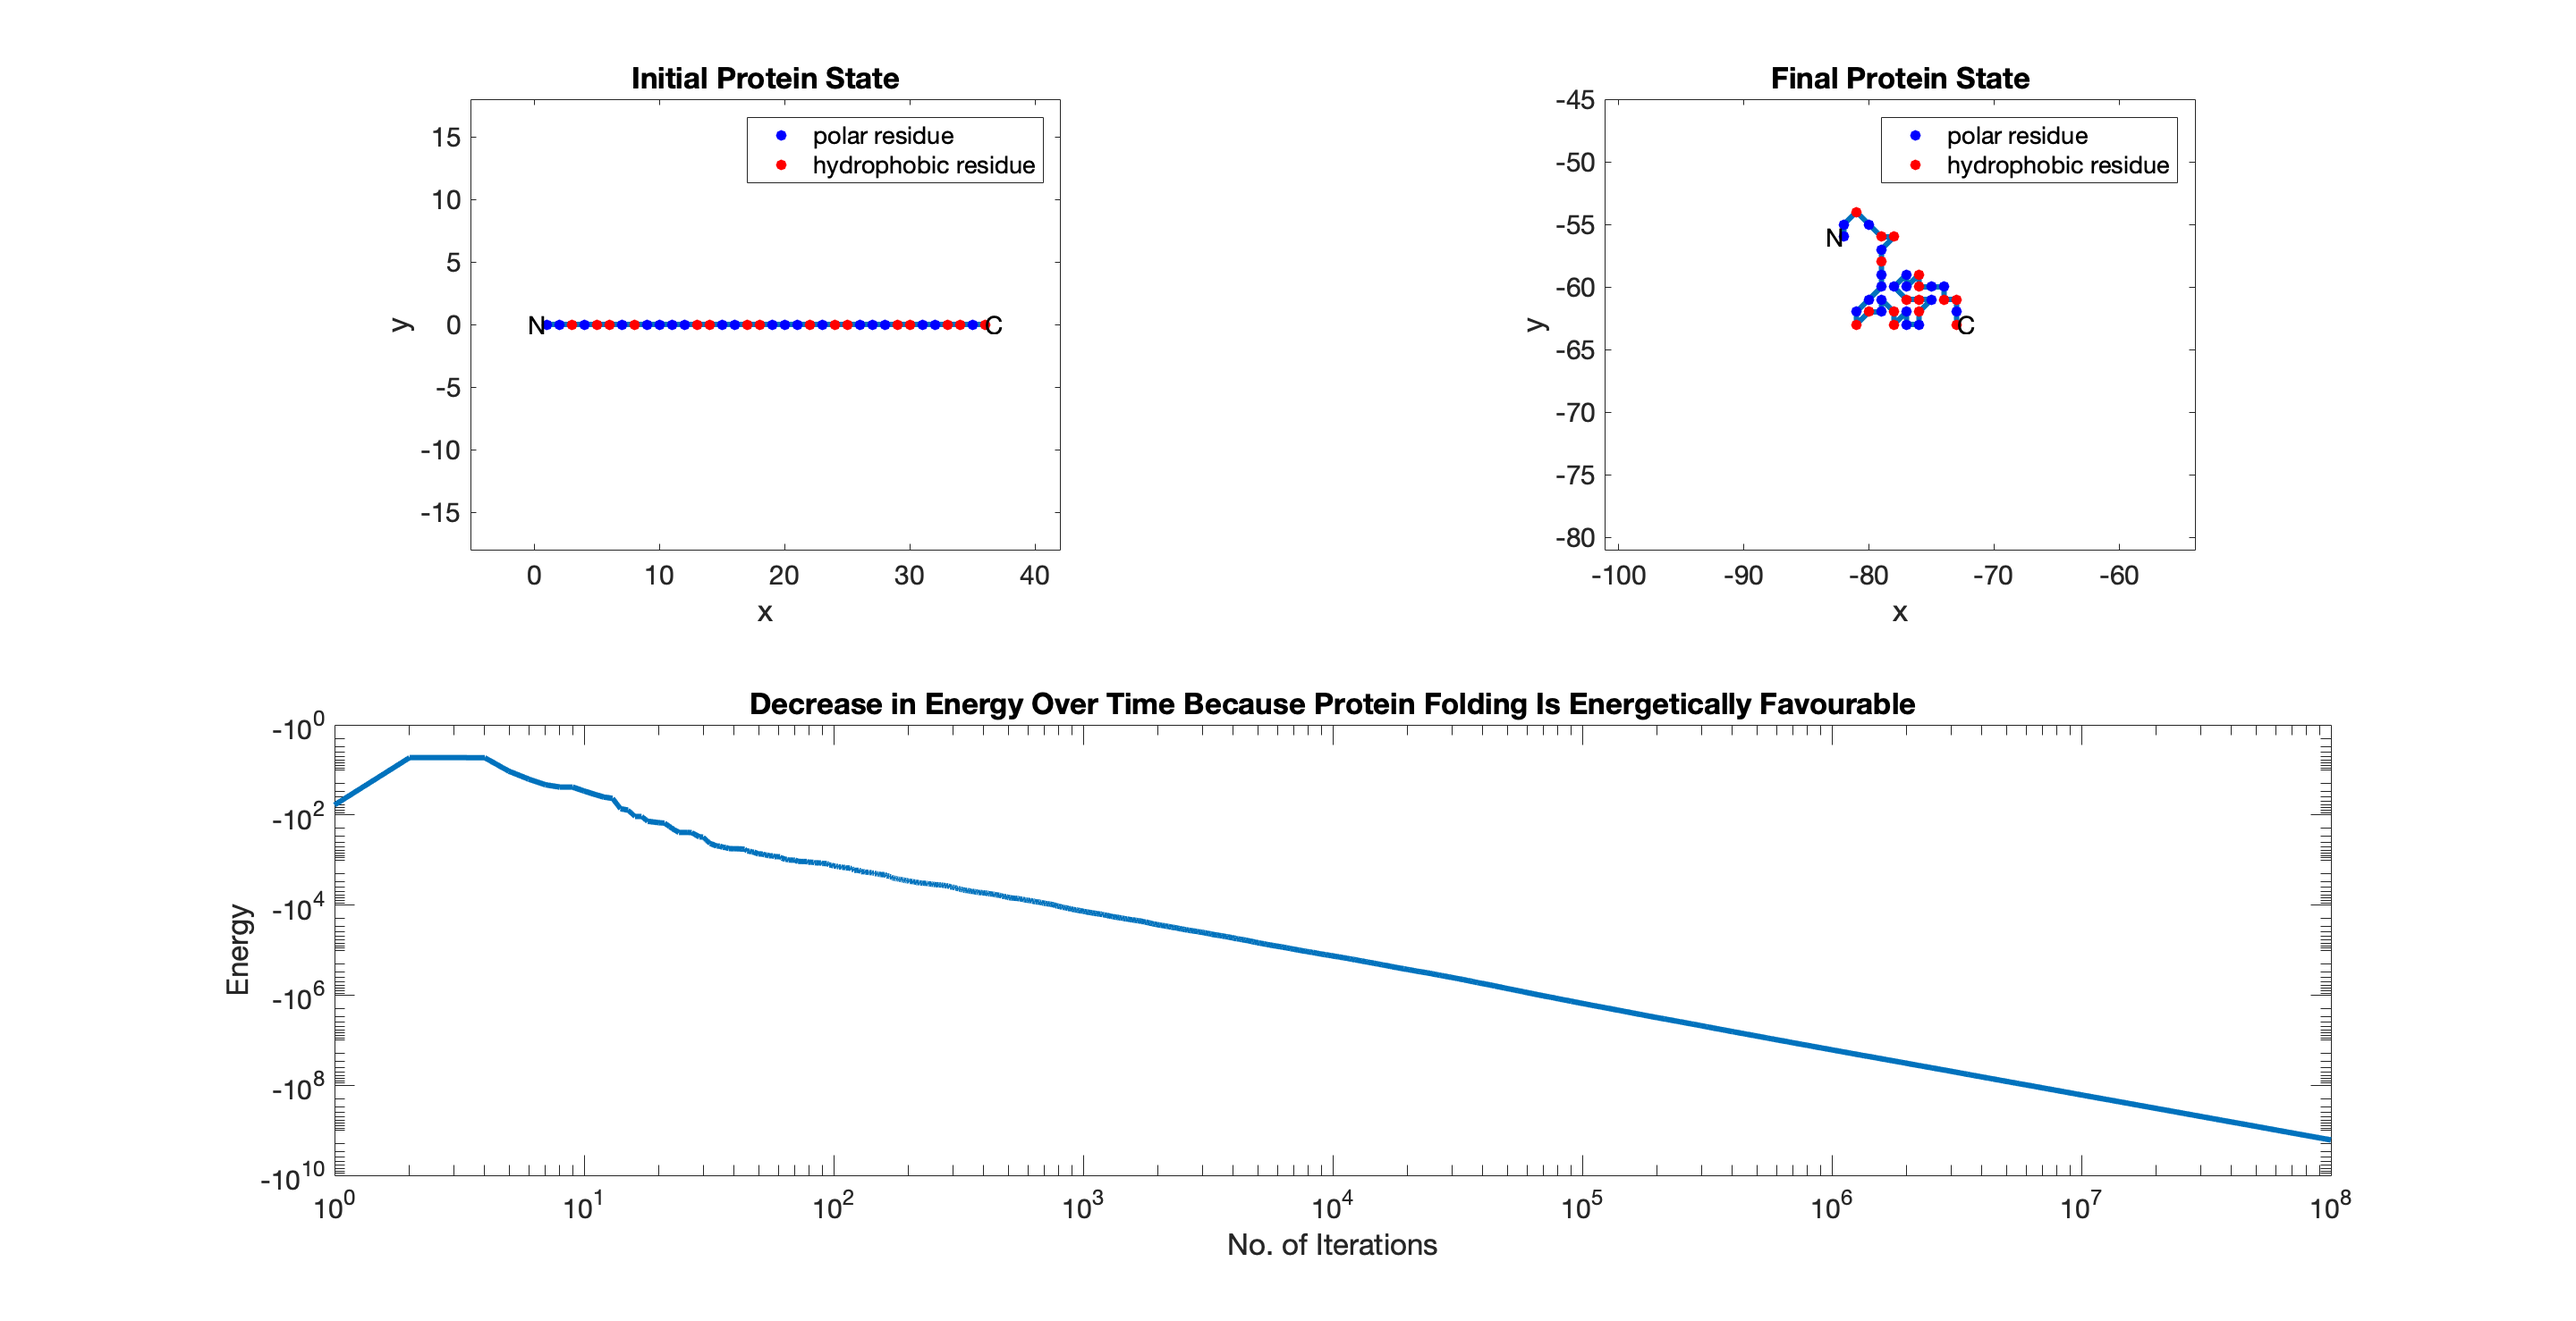
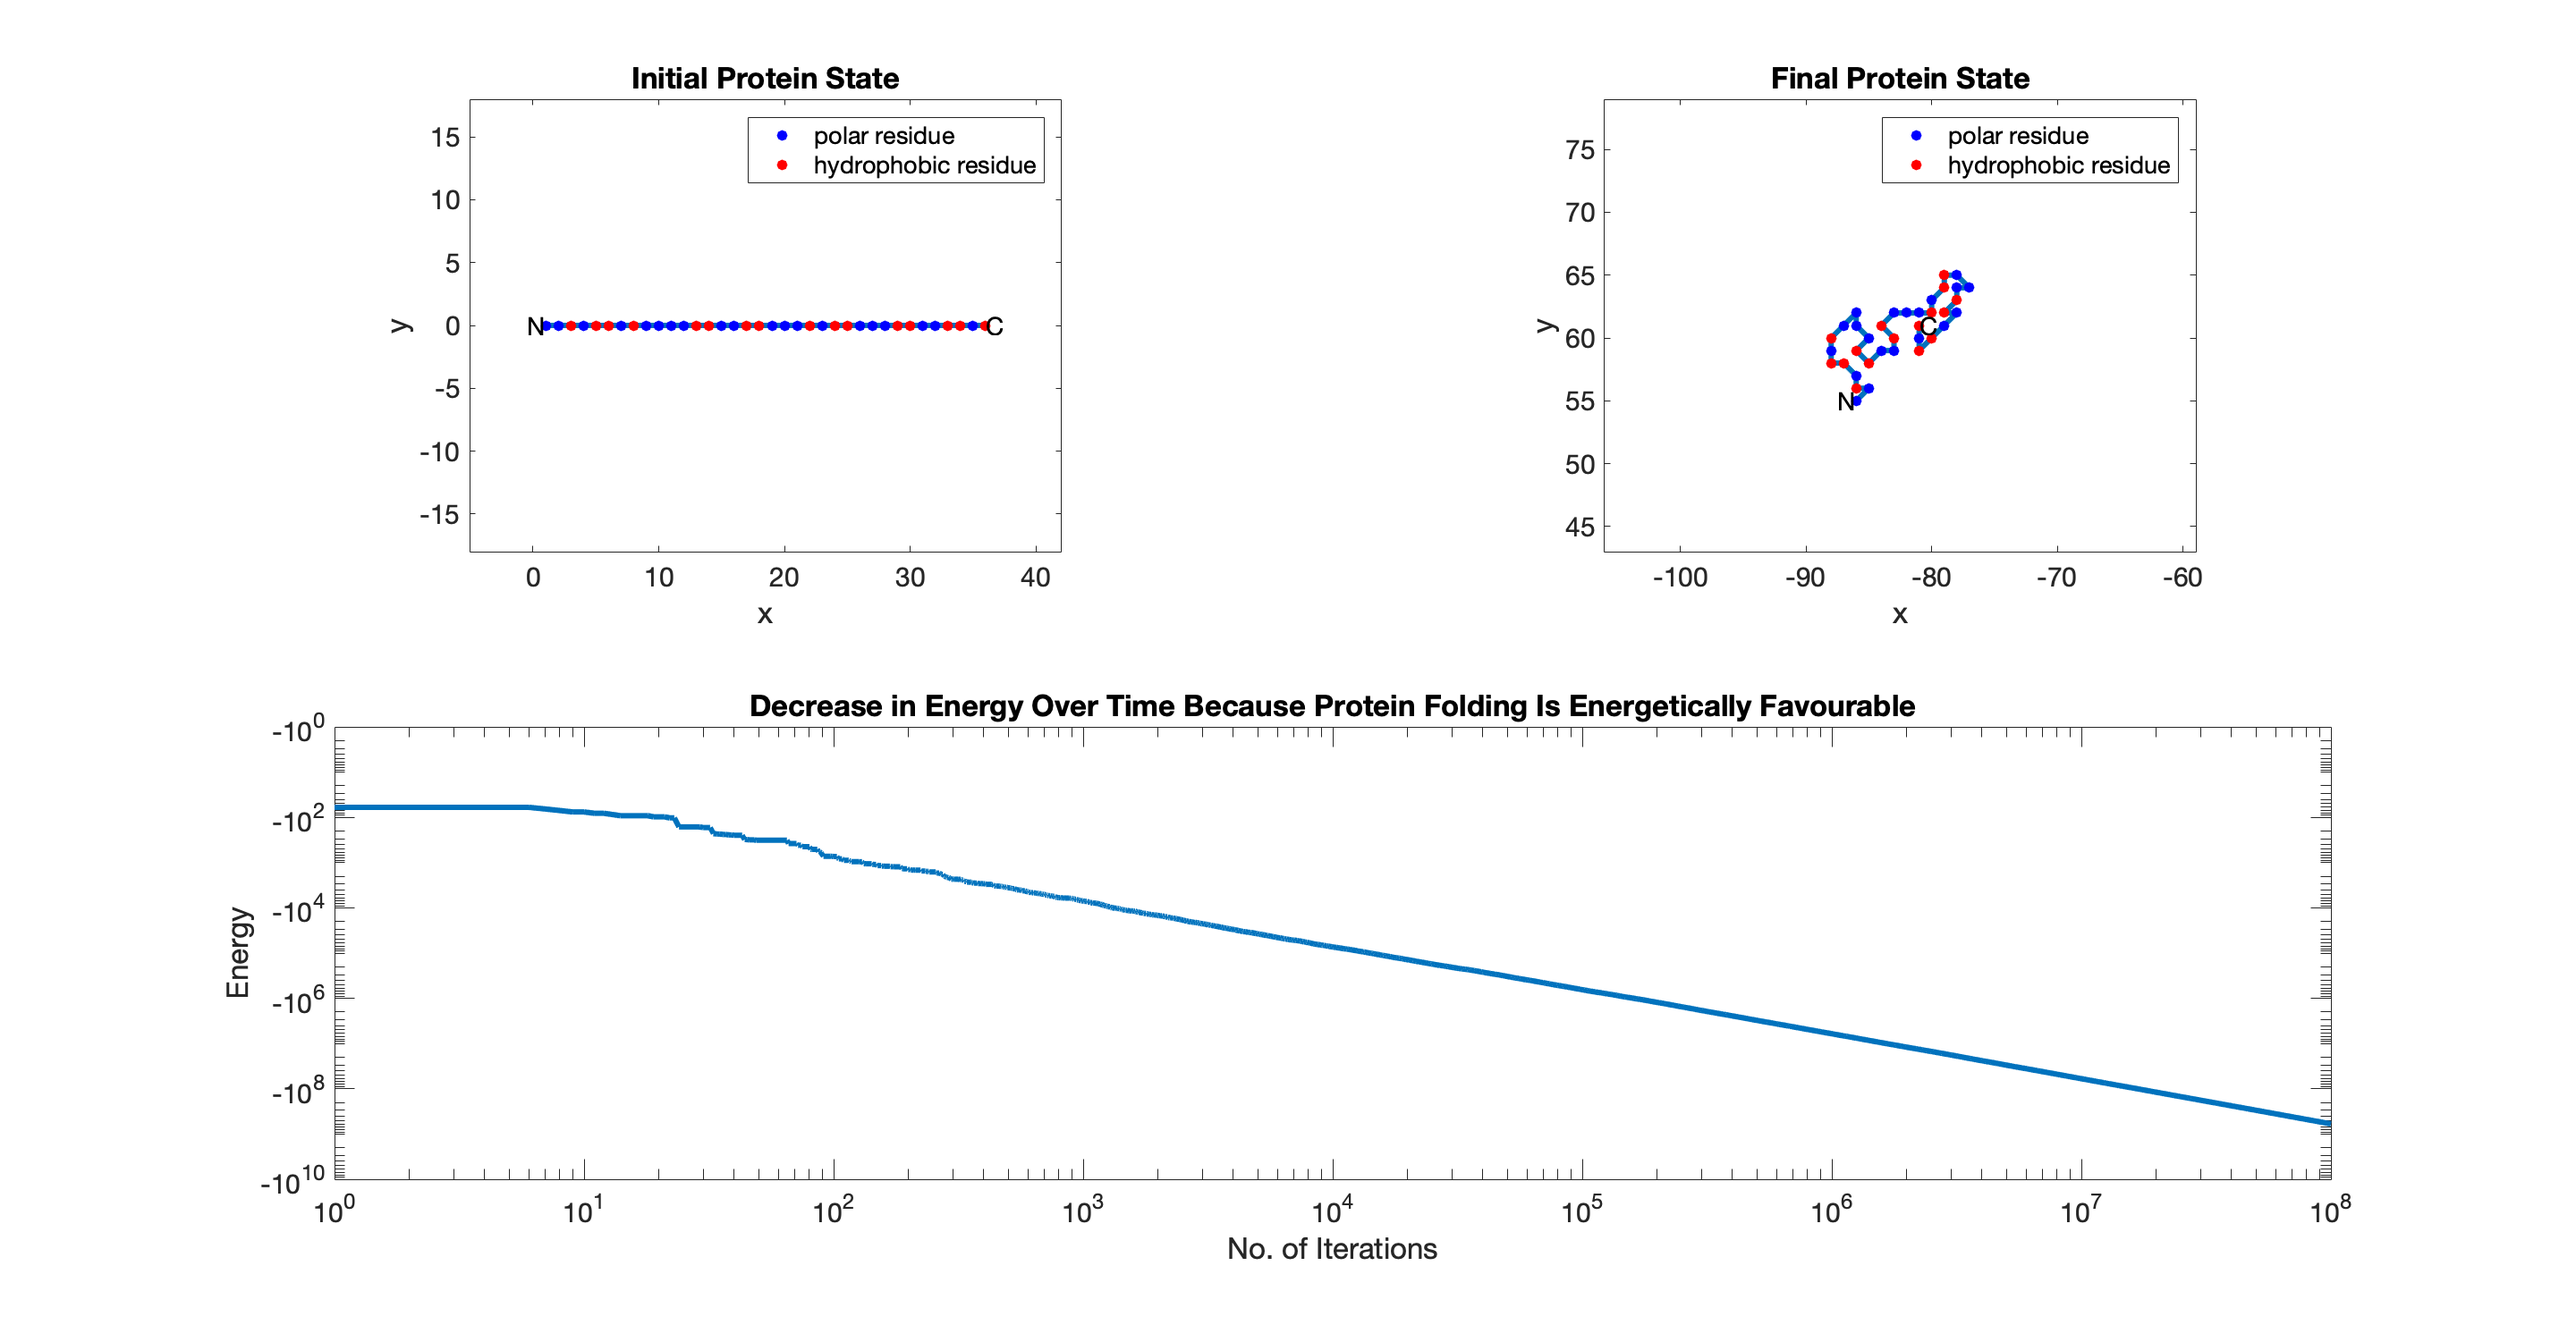
Bug fix: hasStericClash should cause FOR loop to break, not continue

diff --git a/include/fold.m b/include/fold.m
@@ -45,9 +45,7 @@ function [xvals, yvals, energyArray] = fold(hydrophobicity, xvals, yvals, energy
                 if hasStericClash
                     [xvals, yvals] = reverseMove(xvals, yvals, trial_pos, x_moved, y_moved);
                     energyAfter = energyBefore;
-                    continue;
-                    % exits only immediate FOR loop, but the rest of the current iter is essentially O(1).
-                    % since energyBefore == energyAfter, reverseMove() will not be triggered again in metropolis().
+                    break;  % exits only immediate FOR loop
                 end
                 
                 % energy is sum of Lennard-Jones potential of all pairs of residues
@@ -56,10 +54,12 @@ function [xvals, yvals, energyArray] = fold(hydrophobicity, xvals, yvals, energy
             end
         end
         
-        [xvals, yvals] = metropolis(xvals, yvals, energyBefore, energyAfter, trial_pos, x_moved, y_moved, temperature);
-        
-        % save energyAfter as energyBefore for next iteration
-        energyBefore = energyAfter;
+        if ~hasStericClash
+            [xvals, yvals] = metropolis(xvals, yvals, energyBefore, energyAfter, trial_pos, x_moved, y_moved, temperature);
+            
+            % save energyAfter as energyBefore for next iteration
+            energyBefore = energyAfter;
+        end
         
         % update energy array for all iterations
         energyArray(iter + 1) = energyAfter;

diff --git a/main.m b/main.m
@@ -3,7 +3,7 @@ addpath('include');
 
 % folding variables
 temperature = 1;      % temperature
-maxiter = 10^7;       % total no. of iterations of Metropolis algorithm
+maxiter = 10^8;       % total no. of iterations of Metropolis algorithm
 max_folding_seq = 2;  % no. of folding sequences to be concurrently run on the same starting polypeptide
 
 % protein variables
@@ -20,7 +20,7 @@ end
 yvals = zeros(max_folding_seq, length(hydrophobicity));  % initial y-values of every residue in polypeptide
 energyArray = zeros(max_folding_seq, maxiter+1);         % energy at the end of all trial moves
 
-% start the timer: takes about 210 seconds (3.5 minutes) with 10^7 iterations per folding_seq without parallelisation
+% start the timer: takes about 1500 seconds (25 minutes) with 10^8 iterations for 2 parallel folding_seq
 tic;
 parfor folding_seq = 1:max_folding_seq
     [xvals(folding_seq,:), yvals(folding_seq,:), energyArray(folding_seq,:)] = fold(hydrophobicity, xvals(folding_seq,:), yvals(folding_seq,:), energyArray(folding_seq,:), temperature, maxiter);
@@ -40,5 +40,5 @@ for folding_seq = 1:max_folding_seq
     hold off;
     
     subplot(2, 2, [3, 4]);
-    plotEnergy(energyArray(folding_seq,:), maxiter);
+    plotEnergy(energyArray(folding_seq,:));
 end

diff --git a/include/plotEnergy.m b/include/plotEnergy.m
@@ -1,14 +1,13 @@
 %{
 Plot energy for all iterations of the Metropolis algorithm in the log-scale.
 
-IN:  vector representing energy at all iterations of the Metropolis algorithm;
-     total number of iterations of Metropolis algorithm.
+IN:  vector representing energy at all iterations of the Metropolis algorithm.
 %}
-function plotEnergy(energyArray, maxiter)
+function plotEnergy(energyArray)
     plot(energyArray, 'LineWidth', 3);
     set(gca, 'XScale', 'log');
     set(gca, 'YScale', 'log');
-    xlim([0 maxiter]);
+    xlim([0 length(energyArray)]);
     title('Decrease in Energy Over Time Because Protein Folding Is Energetically Favourable');
     xlabel('No. of Iterations'); ylabel('Energy');
     set(gca, 'FontSize', 15);

diff --git a/README.md b/README.md
@@ -32,7 +32,7 @@ The main program in [`main.m`](https://github.com/liweiyap/ProteinFolding/blob/m
 
 <p align="center">p('accept') = min{1, exp(-(E<sub>f</sub>-E<sub>i</sub>)/T)}</p>
 
-where E<sub>f</sub> is the new energy after the trial move and E<sub>i</sub> is the initial energy before the trial move. T is the temperature. To simplify our model, we initialise T as 1, and consider only the bead that moves when calculating the energy change during a trial move. The number of trial moves, i.e. the number of iterations of the Metropolis algorithm, is user-defined.
+where E<sub>f</sub> is the new energy after the trial move and E<sub>i</sub> is the initial energy before the trial move. T is the temperature. To simplify our model, we initialise T as 1, and consider only the bead that moves when calculating the energy change during a trial move. The number of trial moves, i.e. the number of iterations of the helper function in [`include/fold.m`](https://github.com/liweiyap/ProteinFolding/blob/master/include/fold.m), is user-defined.
 
 The code was written using Matlab **version R2016b** and tested on **Mac OS 10.15.5**. To test our code, we used the following 36-residue long polypeptide [(Li et al., 1996)](https://science.sciencemag.org/content/273/5275/666.long), where the dark and light grey residues are H and P respectively:
 
@@ -42,23 +42,15 @@ The code was written using Matlab **version R2016b** and tested on **Mac OS 10.1
 
 ## Results
 
-A sample output of the code following 10<sup>7</sup> iterations of the Metropolis algorithm is shown here:
-
-<p align="center">
-  <img height="450" src="assets/sample_output_with_ten_million_steps.png">
-</p>
-
-The computational time taken for a single folding sequence was about 210 seconds. Multiple folding sequences can be run concurrently on the same polypeptide, thus reducing the combined computational time, e.g. the combined computational time taken for two concurrent folding sequences was about 240 seconds.
-
-In a folded protein, one would expect the H residues to be shielded from the aqueous environment by the P residues. However, it is possible that we do not get such a perfect folding because our polypeptide in question is only 36 residues long. A likelier explanation is that, since the Metropolis algorithm is probabilistic, the polypeptide might already be in the process of being funneled towards a local rather than a global minimum.
-
-On the other hand, hydrophobic patches have been reported to exist on the external surface of proteins and might even have important biological functions, e.g. for protein-protein interactions in the formation of large molecular complexes for intracellular signalling. In any case, in our sample output, we do already see non-neighbouring residues of the same type clustering together to aid the folding of the polypeptide; this clustering is made possible because it is energetically favourable.
-
-Below is another sample output following 10<sup>8</sup> iterations of the Metropolis algorithm:
+Multiple folding sequences can be run concurrently on the same polypeptide, thus reducing the combined computational time, e.g. the combined computational time taken for two concurrent folding sequences was about 25 minutes for 10<sup>8</sup> iterations of the folding function. The output from a sample folding sequence is shown here:
 
 <p align="center">
   <img height="450" src="assets/sample_output_with_hundred_million_steps.png">
 </p>
+
+In a folded protein, one would expect the H residues to be shielded from the aqueous environment by the P residues. However, it is possible that we do not get such a perfect folding because our polypeptide in question is only 36 residues long. A likelier explanation is that, since the Metropolis algorithm is probabilistic, the polypeptide might already be in the process of being funneled towards a local rather than a global minimum.
+
+On the other hand, hydrophobic patches have been reported to exist on the external surface of proteins and might even have important biological functions, e.g. for protein-protein interactions in the formation of large molecular complexes for intracellular signalling. In any case, in our sample output, we do already see non-neighbouring residues of the same type clustering together to aid the folding of the polypeptide; this clustering is made possible because it is energetically favourable.
 
 ## Credits
 
